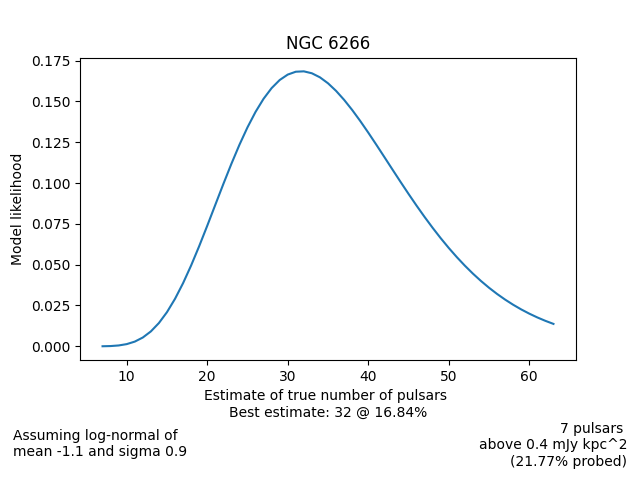
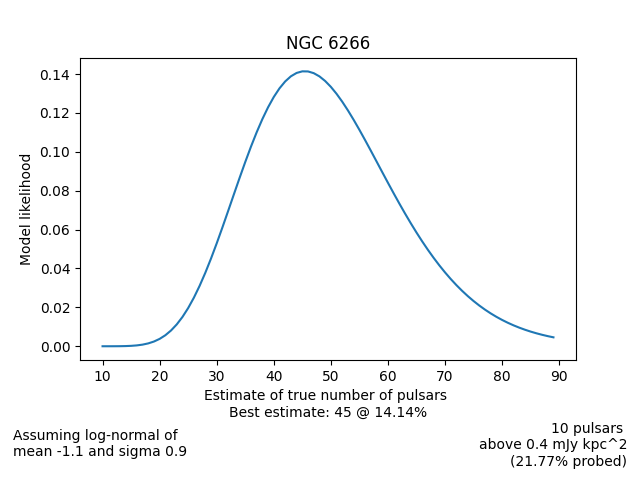
updated with new psr data

diff --git a/LuminosityFunctions.py b/LuminosityFunctions.py
@@ -15,7 +15,7 @@ minCount = 0 #minimum number of pulsars in cluster to be eligible
 if __name__ == "__main__":
 
     # locate data file and read clusters into dictionary
-    DATAFILENAME = "Data1102023.csv"
+    DATAFILENAME = "Data03272024.csv"
     clusters = {}
 
     with open(DATAFILENAME, newline='') as datafile:
